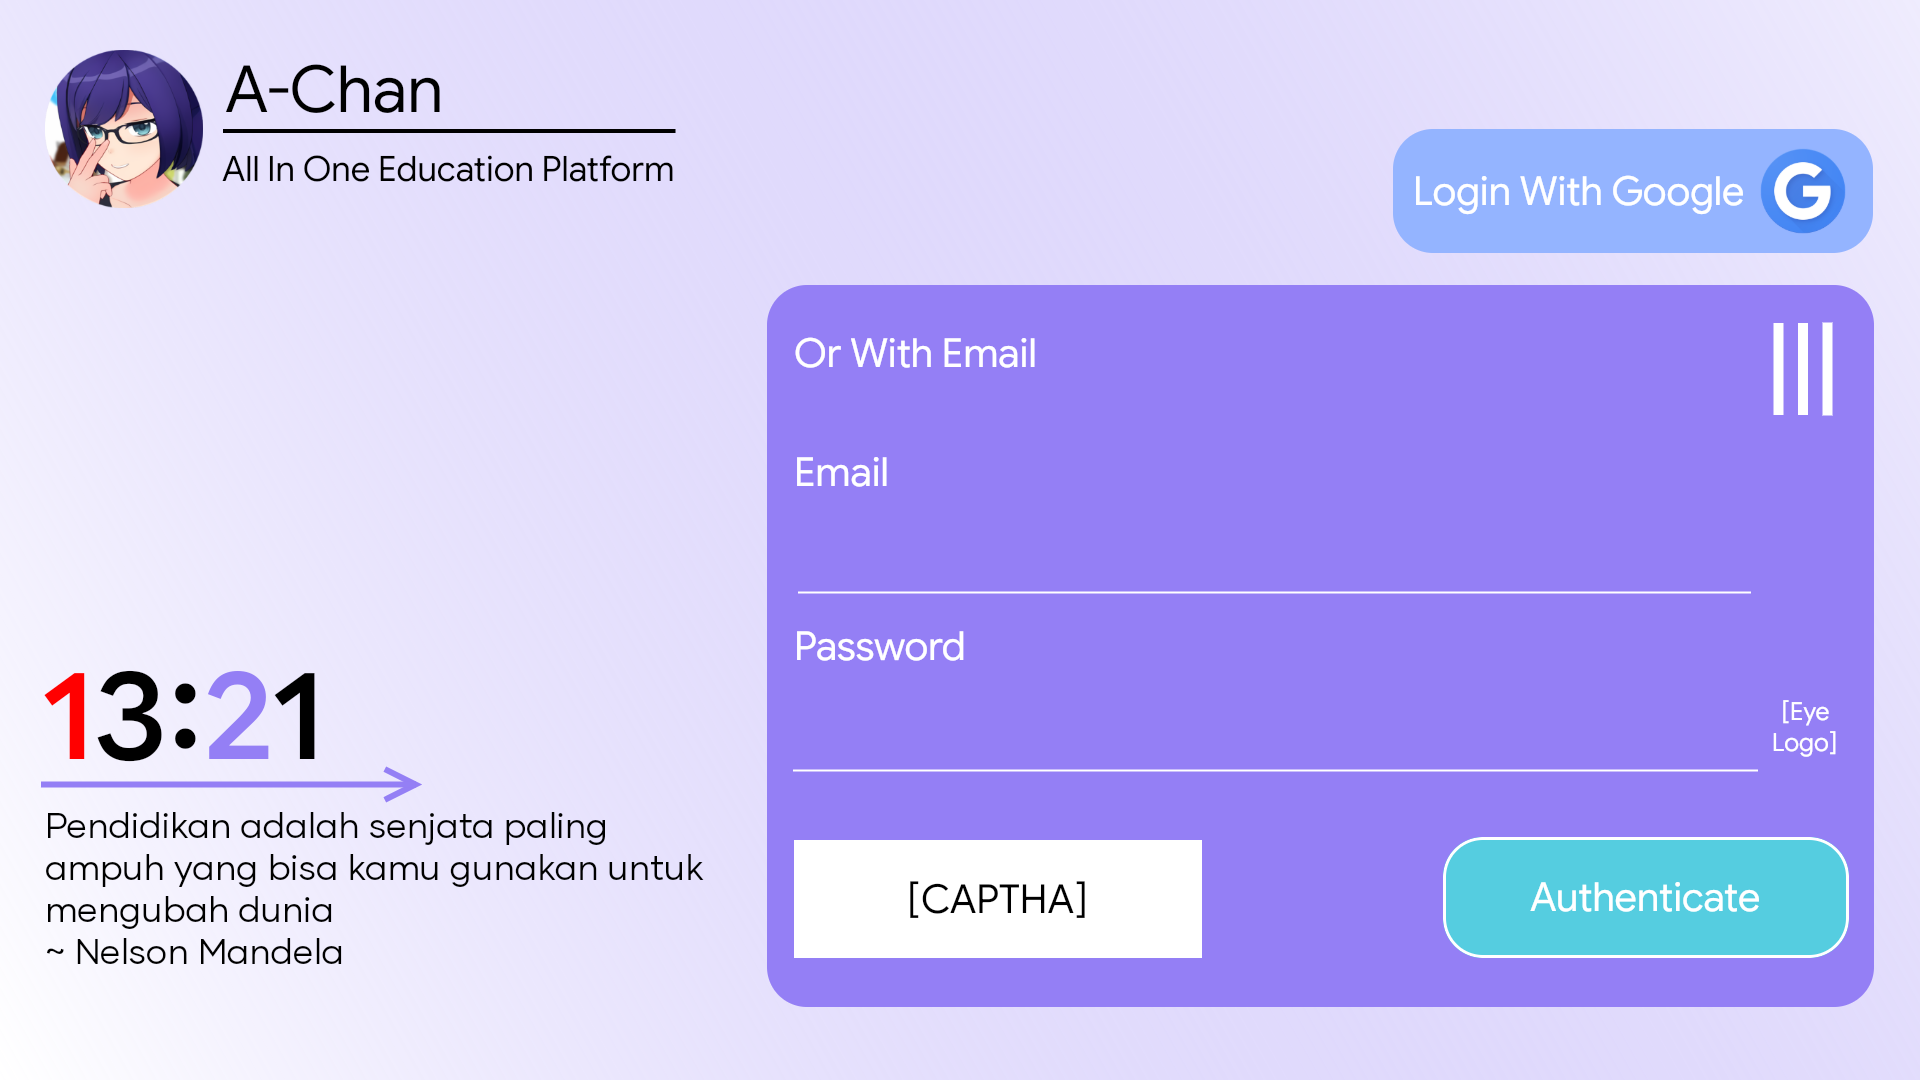
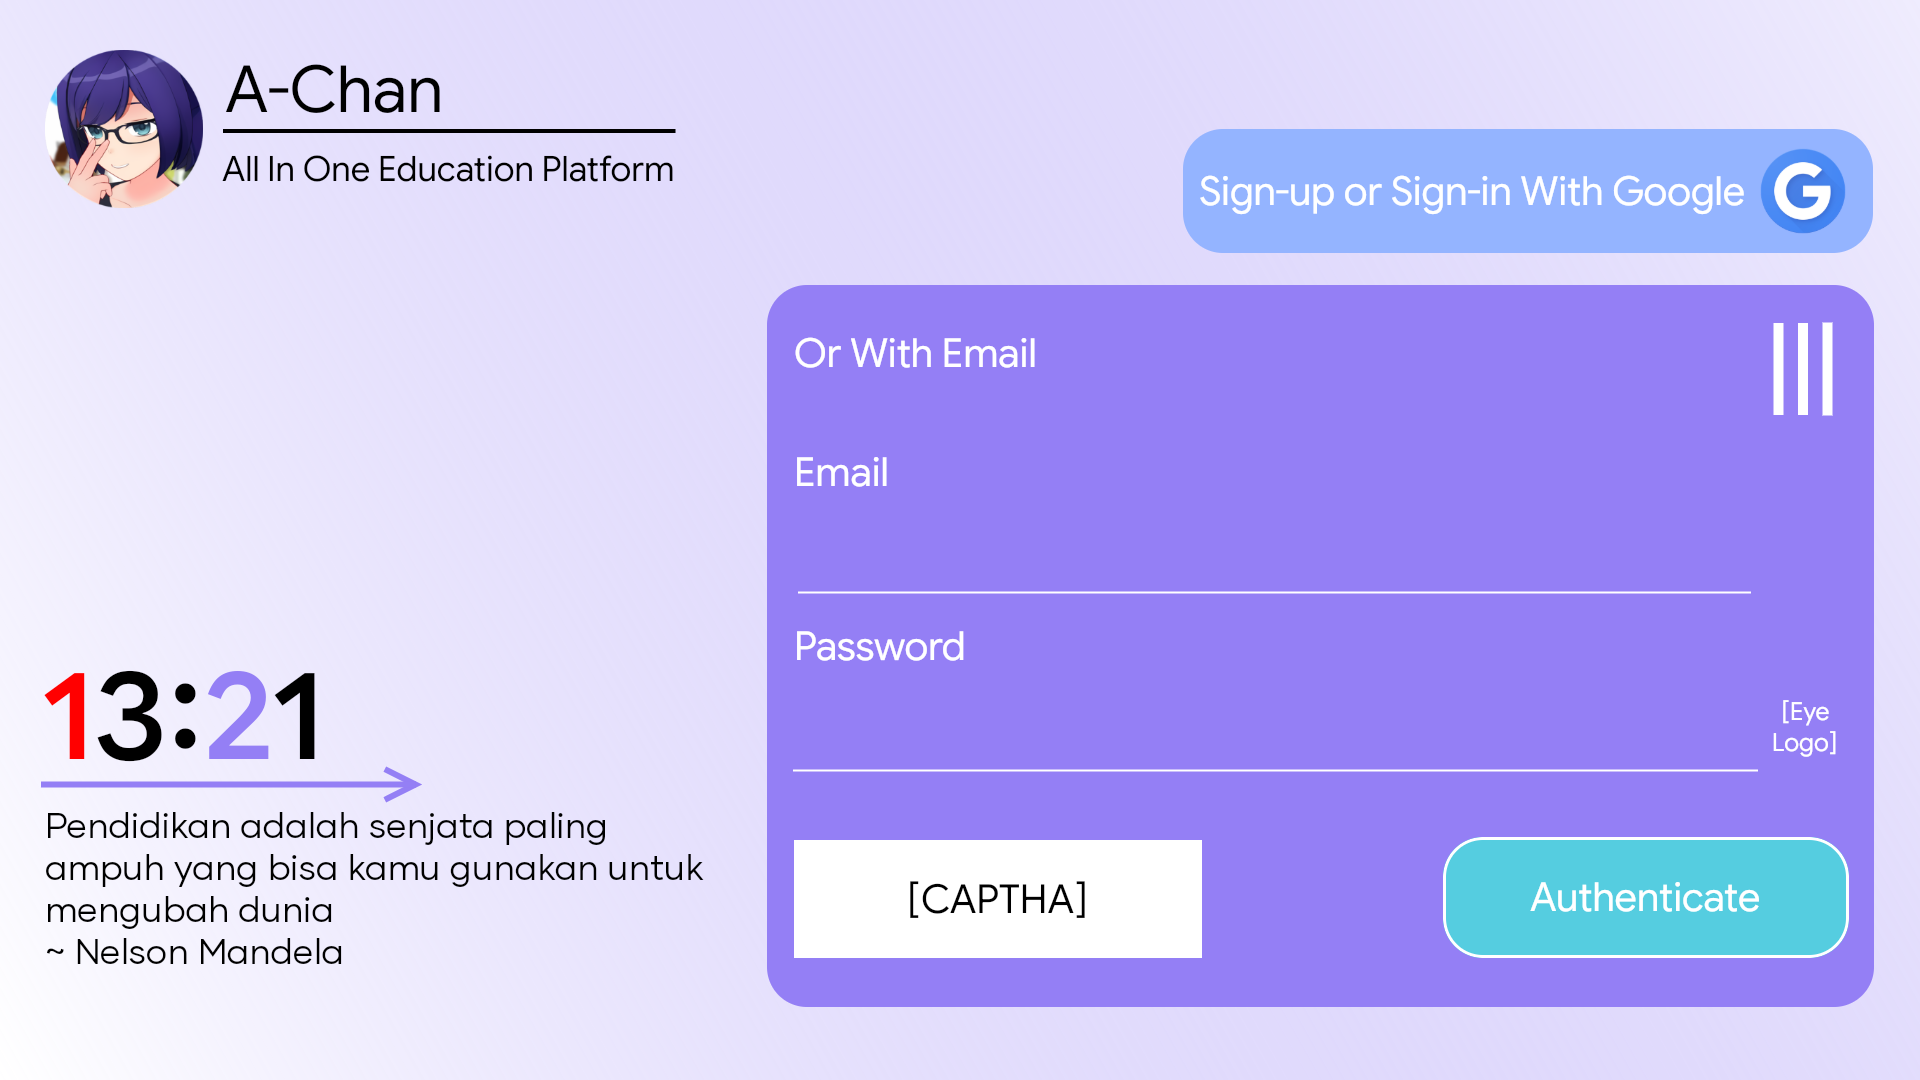
Login: Initial ability to do sign up

Changed region(s): [[0.5938, 0.1222, 0.8438, 0.2444], [0.875, 0.1528, 0.9062, 0.1833]]

diff --git a/src/app/index.tsx b/src/app/index.tsx
@@ -135,7 +135,7 @@ export default function LoginScreen() {
             <View style={styles.rightColumn}>
               <View style={styles.googleBtnWrapper}>
                 <TouchableOpacity style={styles.googleButton} onPress={handleGoogleLogin}>
-                  <Text style={styles.googleButtonText}>Login With Google</Text>
+                  <Text style={styles.googleButtonText}>Sign-up or Sign-in With Google</Text>
                   <View style={styles.googleIconContainer}>
                     <Image source={require('../../assets/images/Google.webp')} style={styles.googleIcon} resizeMode="contain" />
                   </View>
